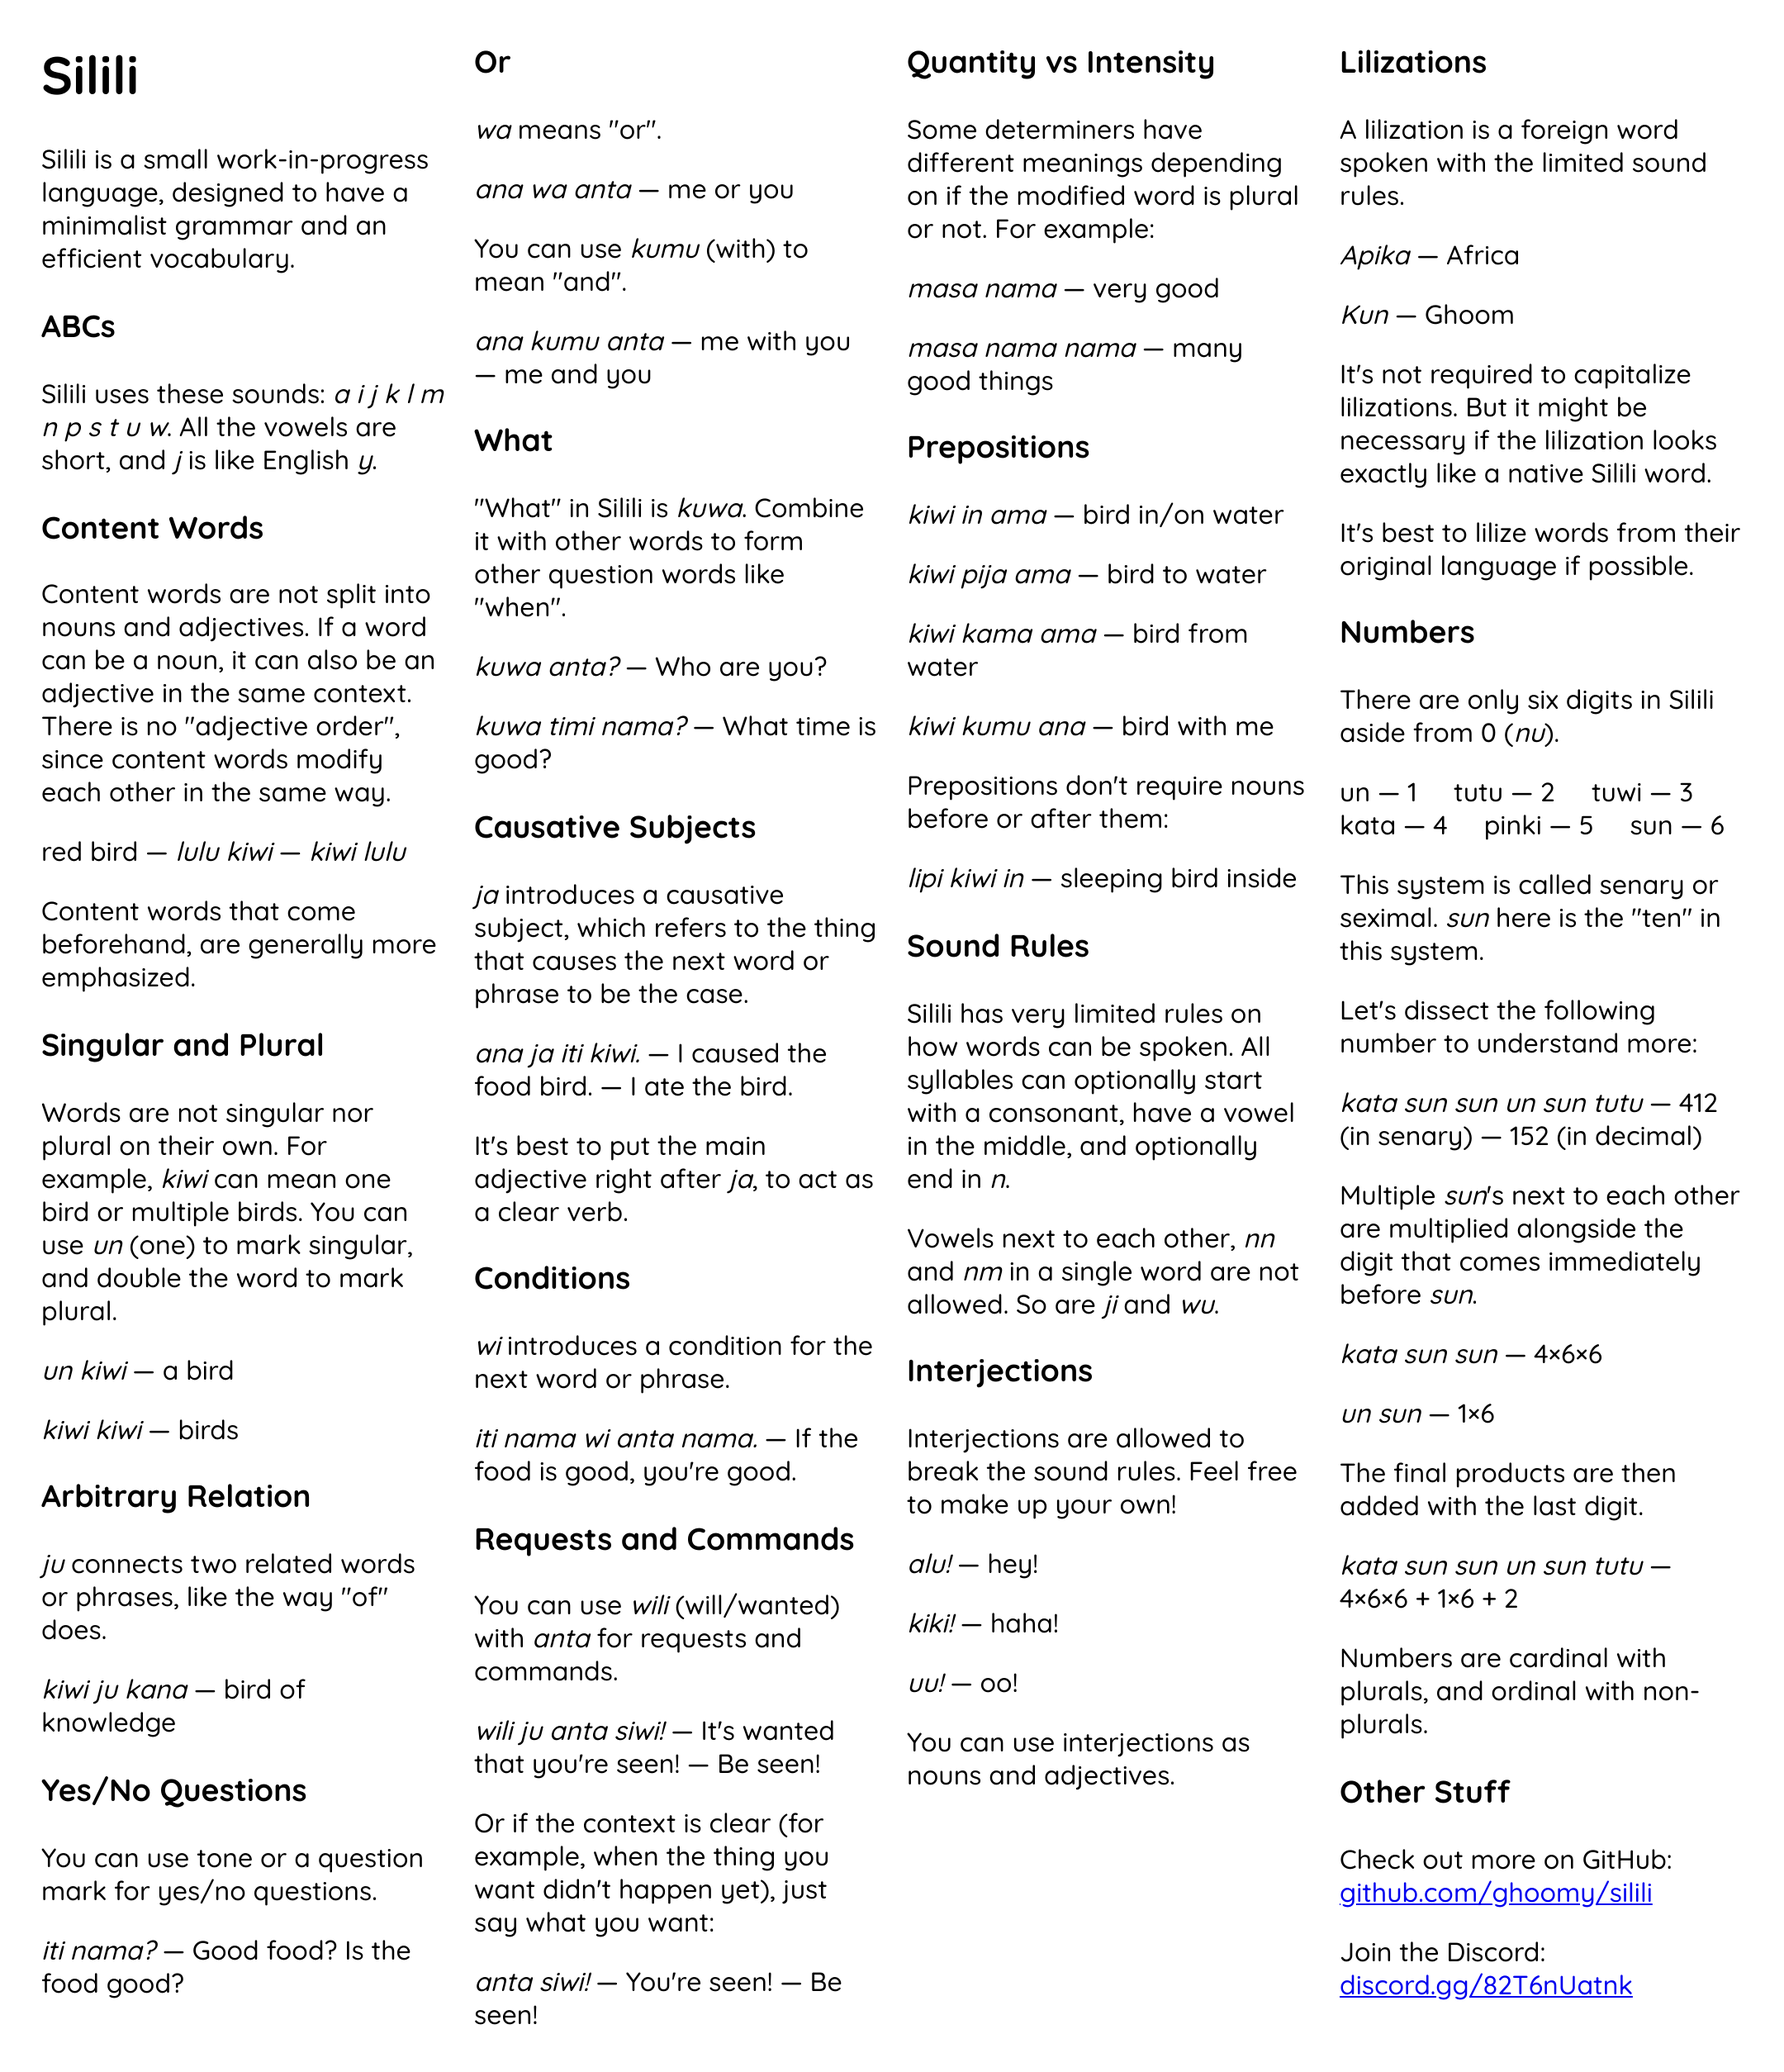
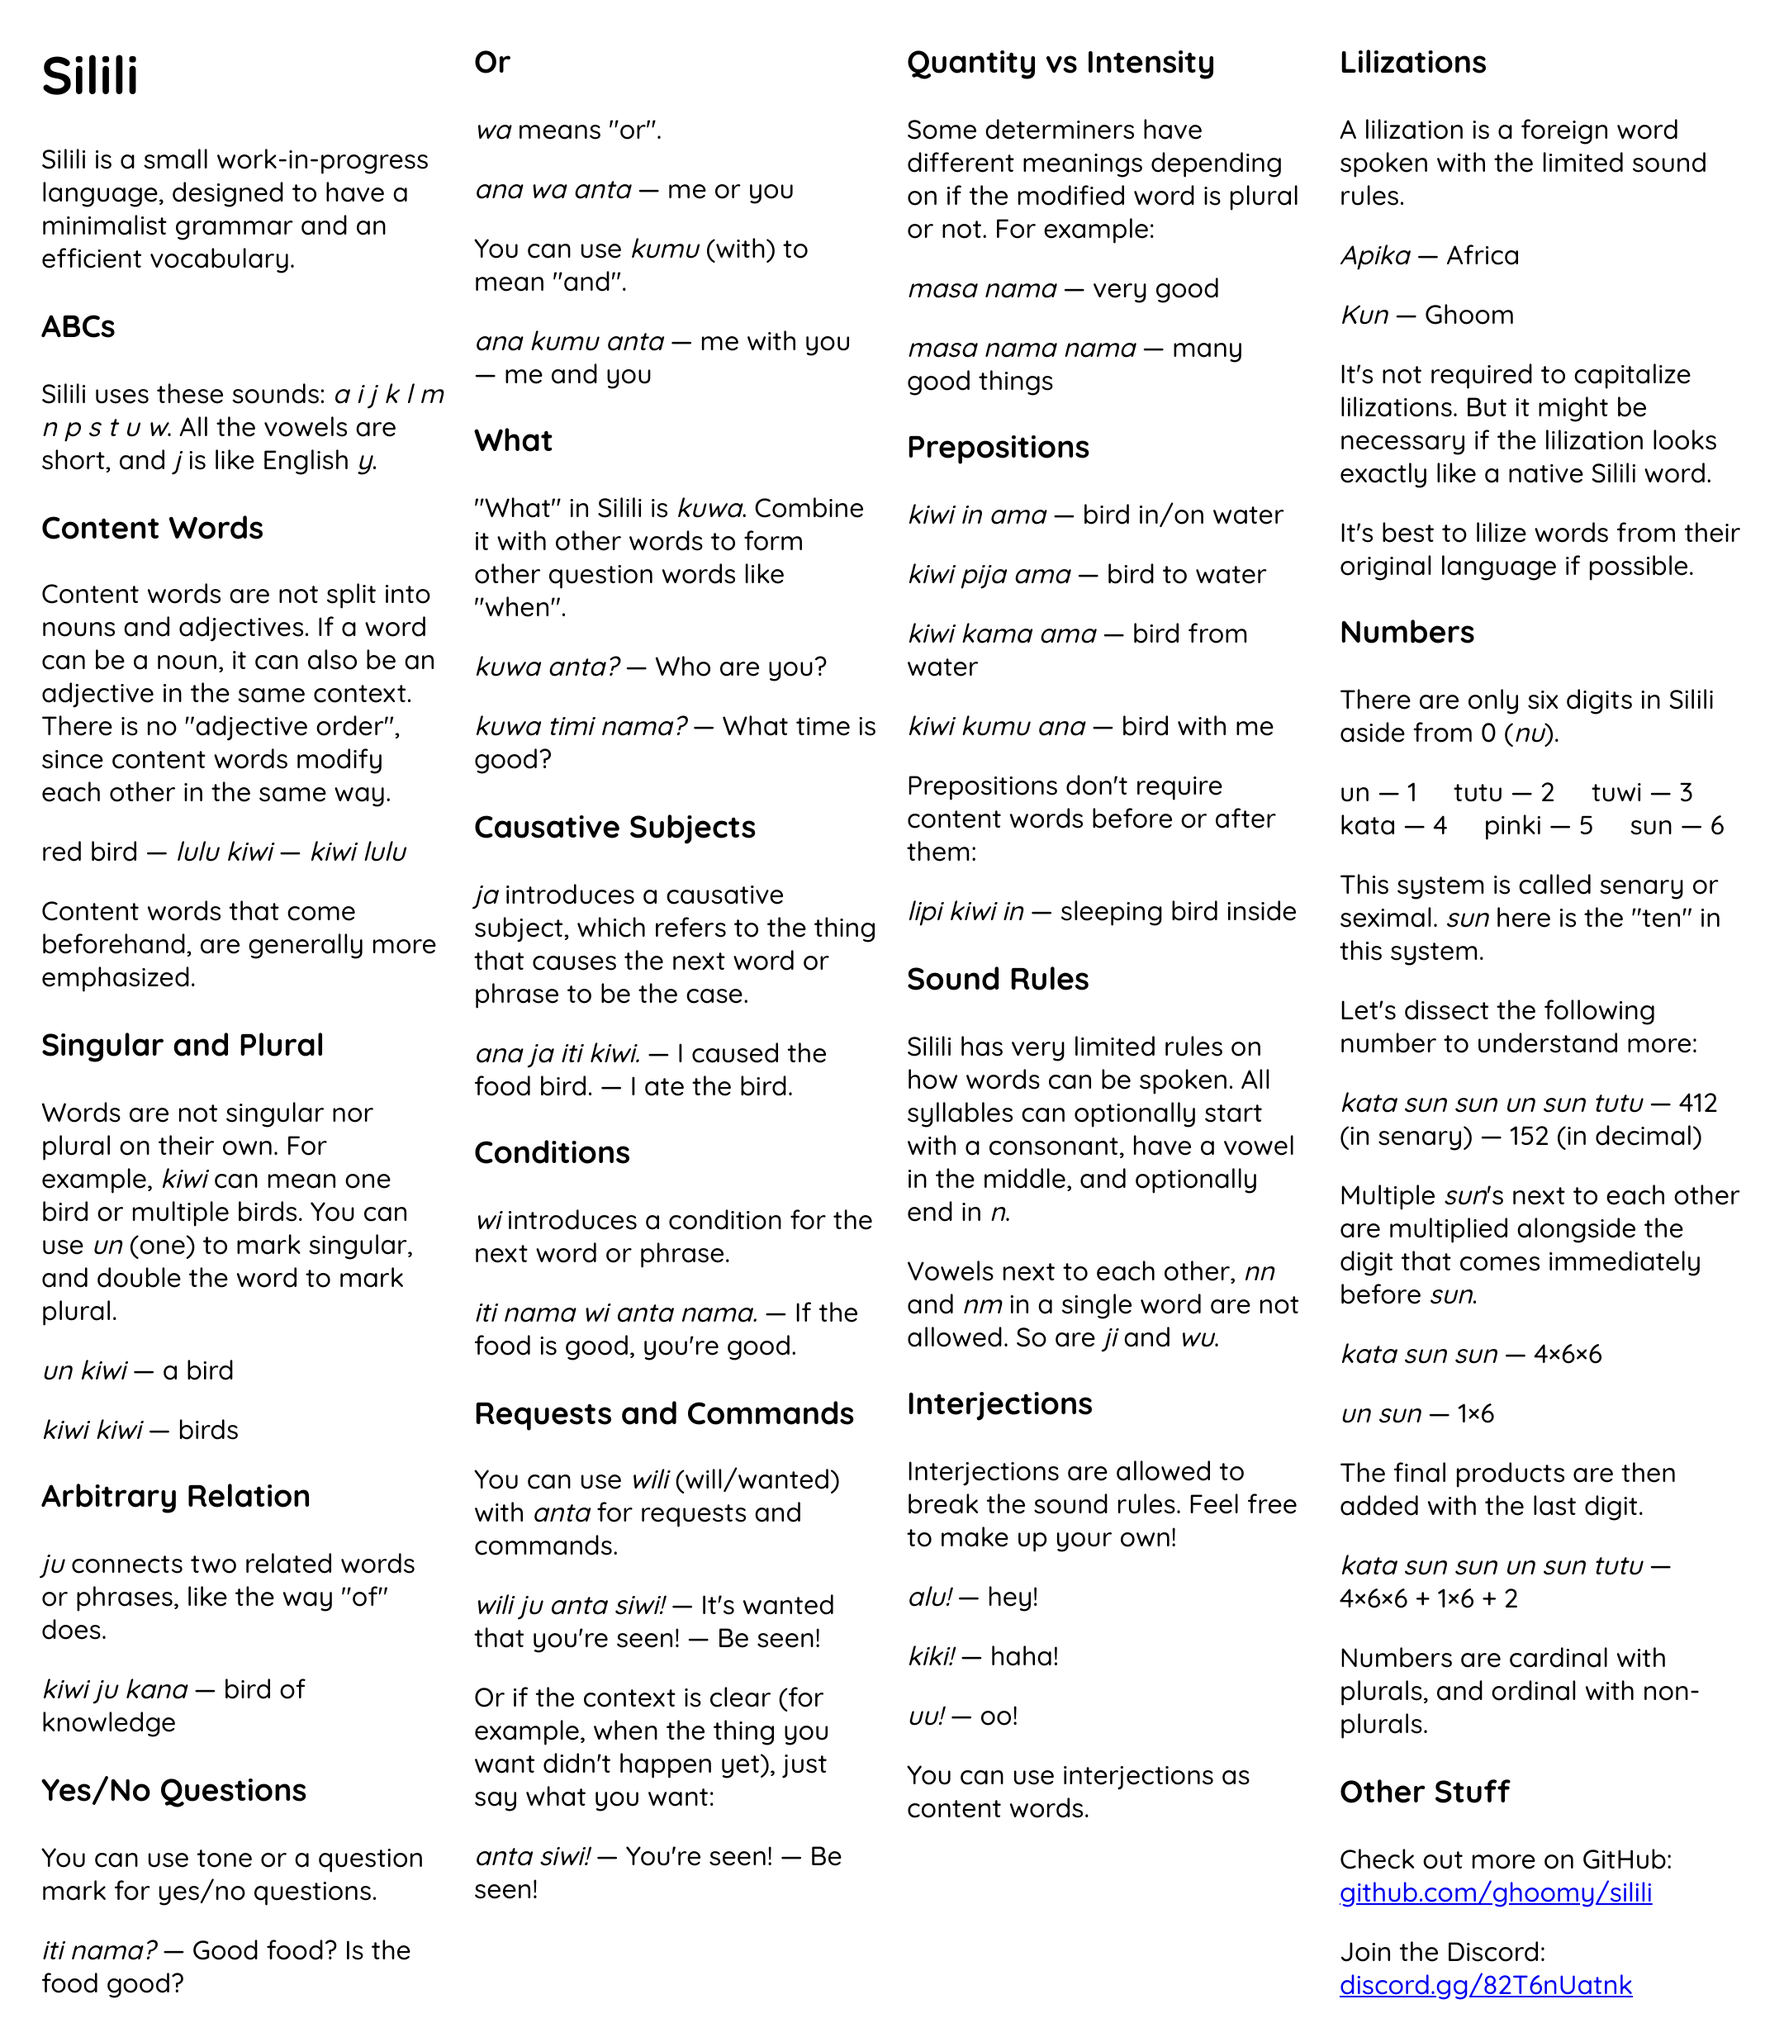
...

diff --git a/README.md b/README.md
@@ -75,8 +75,6 @@ You can use *kumu* (with) to mean "and".
 
 *ana ja iti kiwi.* — I caused the food bird. — I ate the bird.
 
-It's best to put the main adjective right after *ja*, to act as a clear verb.
-
 ### Conditions
 
 *wi* introduces a condition for the next word or phrase.
@@ -114,7 +112,7 @@ Some determiners have different meanings depending on if the modified word is pl
 
 *kiwi kumu ana* — bird with me
 
-Prepositions don't require nouns before or after them:
+Prepositions don't require content words before or after them:
 
 *lipi kiwi in* — sleeping bird inside
 
@@ -134,7 +132,7 @@ Interjections are allowed to break the sound rules. Feel free to make up your ow
 
 *uu!* — oo!
 
-You can use interjections as nouns and adjectives.
+You can use interjections as content words.
 
 <!--/td-->
 <!--td style="width: 100%;"-->
